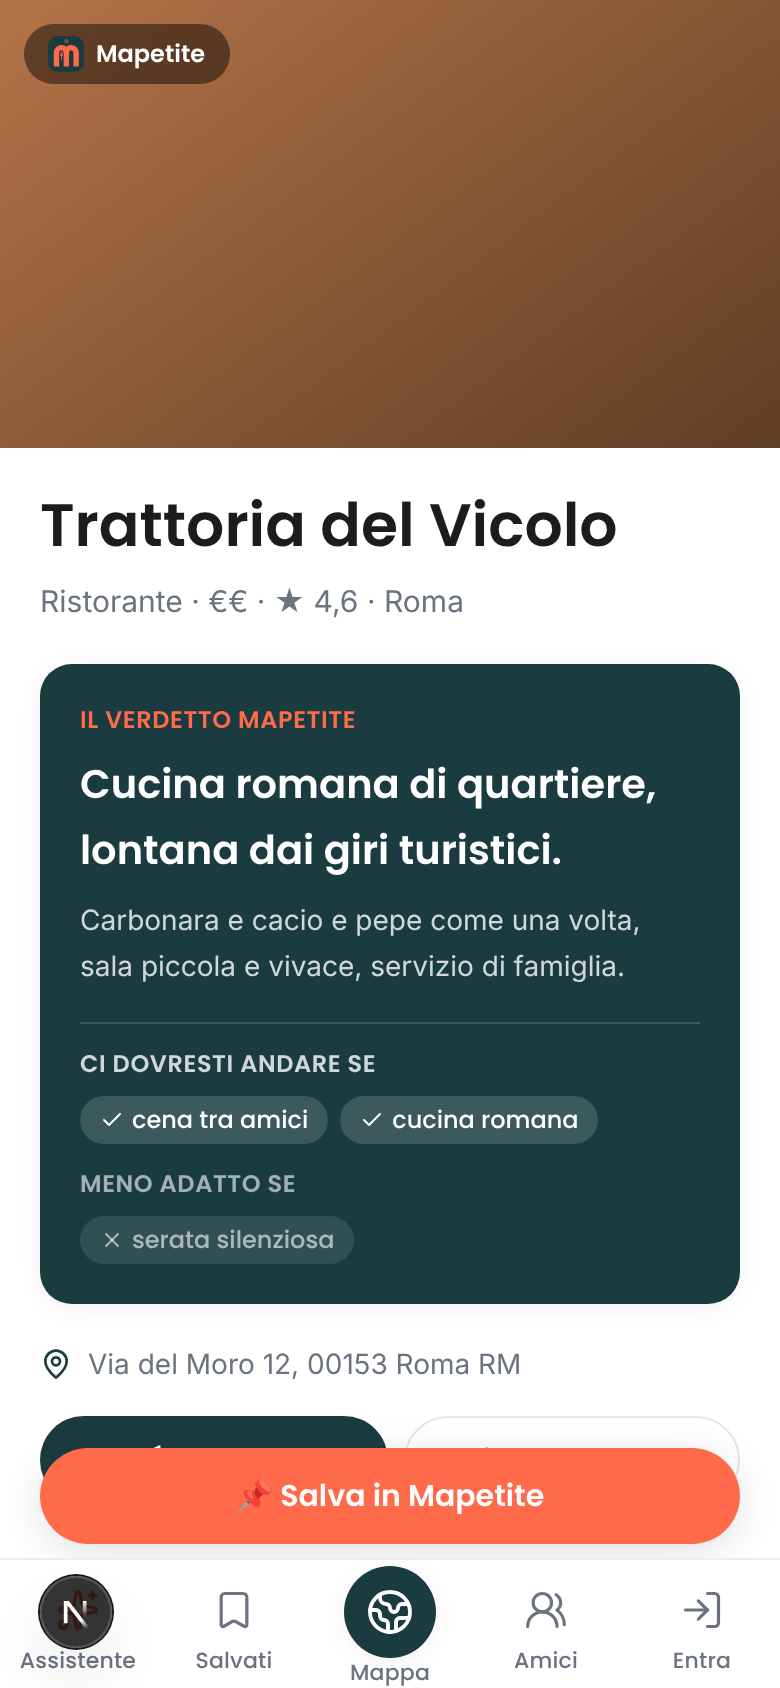
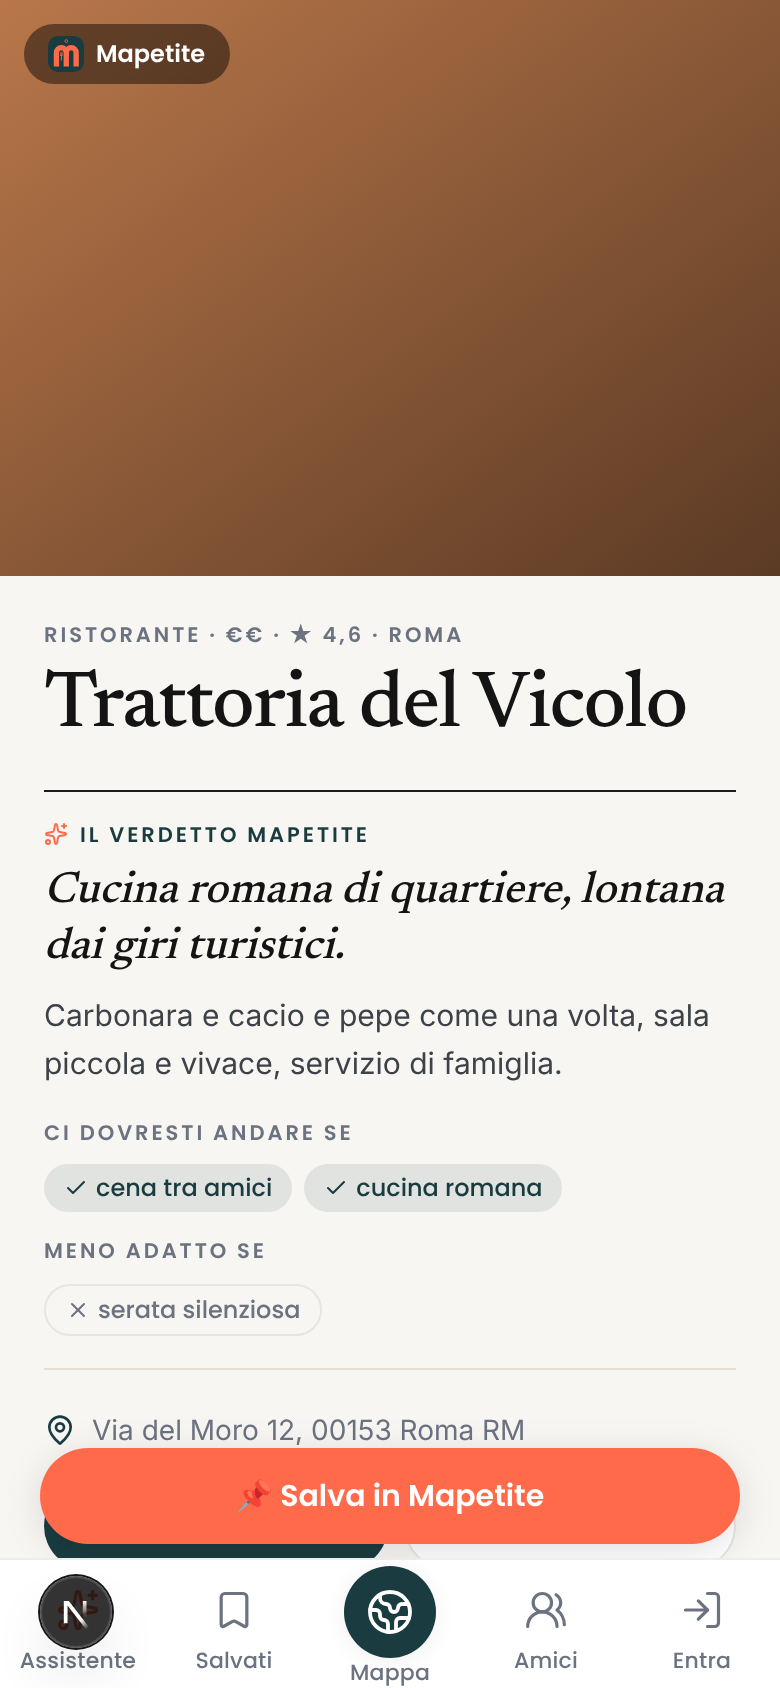
✓ requisiti di nuovo spenti in produzione (secondo collaudo della notte: 1 falso su 77, «Prenotate il tavolo panoramico»); corretti per il prossimo collaudo: due giri davvero diversi (tutta la ricerca, poi locale per locale), scadenza di 7 s, indici e requisito ricontrollati, vale il no se l'AI si c
Claude-Session: https://claude.ai/code/session_01DgoAfH6Ny6a23BFsw3ts5U

diff --git a/src/lib/conferma-prove.ts b/src/lib/conferma-prove.ts
@@ -8,7 +8,7 @@ import type { Candidato, Requisito } from "./prova-requisito";
 // instabile, 5 falsi su 65 trabocchetti e diversi a ogni giro), a temperatura 0, con la recensione
 // intera, risposta scomposta in domande semplici, e due giri: il ✓ resta solo se dicono sì tutti e due.
 
-const anthropic = new Anthropic({ apiKey: process.env.ANTHROPIC_API_KEY, maxRetries: 1, timeout: 15_000 });
+const anthropic = new Anthropic({ apiKey: process.env.ANTHROPIC_API_KEY, maxRetries: 0, timeout: 8_000 });
 export const CONFERMA_MODEL = "claude-haiku-4-5-20251001";
 
 export const CONFERMA_SYSTEM = `Controlli prove per un'app di ristoranti. Per ogni caso ricevi: il requisito cercato (r), il nome del locale, la frase candidata e la recensione intera da cui viene. Devi dire se la frase è una PROVA che QUESTO locale ha OGGI quella caratteristica. L'app mostrerà la frase come prova: una prova falsa è un errore grave, perdere una prova vera non lo è. Nel dubbio: no.
@@ -17,11 +17,11 @@ Per ogni caso rispondi a queste domande, nell'ordine:
 1. soggetto: la caratteristica appartiene a QUESTO locale (la sua sala, la sua terrazza, la sua vista, la sua atmosfera)? "altro" se è di un posto vicino, di un altro edificio, del quartiere, della strada, di un altro locale, di un parcheggio o di qualcosa visto passeggiando.
 2. significato: la parola è usata nel senso che interessa a chi sceglie un locale? "altro" se ha un altro senso: periodo o stile artistico (quadri del periodo romantico), "tranquilli" riferito a parcheggio, prezzo, prenotazione o modo di fare; "vista" sulla cucina, sul bancone, sul parcheggio, sul muro, "a vista", "vista" come verbo; "terrazza" o "giardino" come nome di piatto, di sala chiusa o di un altro posto; "coppia" di supplì o di ingredienti; "intimo" riferito a capi d'abbigliamento o a tavoli troppo vicini.
 3. tono: "positivo" se la frase dice chiaramente che la caratteristica c'è ed è bella o adatta; "ironico" se è sarcastica o il seguito della recensione la smentisce; "negativo" o "misto" se contiene un difetto, una delusione, una chiusura, una stagione in cui non c'è, una promessa non mantenuta, un confronto con altri posti, o se la caratteristica c'era in passato o era occupata o non disponibile per loro.
-4. afferma: la frase dice com'è il locale (sì) o solo cosa volevano fare loro, o un augurio, un consiglio, una domanda (no)? "Siamo andati per una cena romantica" o "Era la mia prima volta qui per una cena romantica e mi è piaciuto" non dicono che il locale è romantico (dicono perché ci sono andati); "Locale romantico, luci soffuse" sì.
+4. afferma: la frase dice com'è il locale (sì) o solo cosa volevano fare loro, o un augurio, un consiglio o un invito ("prenotate il tavolo panoramico", "chiedete la terrazza", "se volete la vista arrivate presto": no), una domanda (no)? "Siamo andati per una cena romantica" o "Era la mia prima volta qui per una cena romantica e mi è piaciuto" non dicono che il locale è romantico (dicono perché ci sono andati); "Locale romantico, luci soffuse" sì.
 5. ok: true SOLO se soggetto "locale", significato "giusto", tono "positivo" e afferma true. Leggi tutta la recensione: se altrove smentisce la frase, ok è false.
 
-Rispondi SOLO con un array JSON valido, senza testo, senza backtick:
-[{"i":number,"soggetto":"locale"|"altro","significato":"giusto"|"altro","tono":"positivo"|"ironico"|"negativo"|"misto","afferma":boolean,"ok":boolean}]`;
+Rispondi SOLO con un array JSON valido, senza testo, senza backtick, un oggetto per caso, con "i" e "r" copiati dal caso:
+[{"i":number,"r":string,"soggetto":"locale"|"altro","significato":"giusto"|"altro","tono":"positivo"|"ironico"|"negativo"|"misto","afferma":boolean,"ok":boolean}]`;
 
 type Caso = { id: string; nome: string; c: Candidato };
 
@@ -36,15 +36,22 @@ async function giro(casi: Caso[]): Promise<Set<number>> {
   });
   const t = m.content[0]?.type === "text" ? m.content[0].text : "";
   const ok = new Set<number>();
+  const no = new Set<number>();
   try {
     const arr = JSON.parse(t.slice(t.indexOf("["), t.lastIndexOf("]") + 1)) as Record<string, unknown>[];
     for (const o of arr) {
+      const i = o.i;
+      // Indice valido e requisito ricopiato uguale: uno sfasamento degli indici non passa.
+      if (typeof i !== "number" || !Number.isInteger(i) || i < 0 || i >= casi.length || o.r !== casi[i].c.r) continue;
       // Si ricontrolla ogni risposta: basta un "altro" o un tono non positivo e il ✓ non c'è.
-      if (typeof o.i === "number" && o.ok === true && o.soggetto === "locale" && o.significato === "giusto" && o.tono === "positivo" && o.afferma === true) ok.add(o.i);
+      if (o.ok === true && o.soggetto === "locale" && o.significato === "giusto" && o.tono === "positivo" && o.afferma === true) ok.add(i);
+      else no.add(i);
     }
   } catch {
     console.error("[conferma-prove] risposta non leggibile:", t.slice(0, 200));
   }
+  // Due risposte per lo stesso caso, una sì e una no: vale il no.
+  for (const i of no) ok.delete(i);
   console.log(`[conferma-prove] casi=${casi.length} ok=${ok.size} in=${m.usage.input_tokens} out=${m.usage.output_tokens}`);
   return ok;
 }
@@ -54,10 +61,16 @@ export async function confermaProve(candidati: Record<string, Candidato[]>, nomi
   const casi: Caso[] = Object.entries(candidati).flatMap(([id, cs]) => cs.map((c) => ({ id, nome: nomi[id] ?? "", c })));
   if (casi.length === 0) return {};
   try {
-    // Secondo giro con i casi in ordine inverso: la stessa risposta per caso, non per posizione.
-    const inv = [...casi].reverse();
-    const [a, bInv] = await Promise.all([giro(casi), giro(inv)]);
-    const b = new Set([...bInv].map((j) => casi.length - 1 - j));
+    // Due giri davvero diversi (secondo collaudo del 23/10: con lo stesso gruppo in ordine inverso
+    // sbagliavano insieme): il primo con tutti i casi della ricerca, il secondo locale per locale,
+    // con vicini diversi. Scadenza propria: i verdetti non aspettano mai la conferma più di 7 s.
+    const perLocale = Object.keys(candidati).map((id) => casi.map((x, i) => ({ x, i })).filter(({ x }) => x.id === id));
+    const giroB = Promise.all(perLocale.map(async (g) => {
+      const ok = await giro(g.map(({ x }) => x));
+      return g.filter((_, j) => ok.has(j)).map(({ i }) => i);
+    })).then((xs) => new Set(xs.flat()));
+    const scadenza = new Promise<never>((_, rej) => setTimeout(() => rej(new Error("conferma oltre 7 s")), 7_000));
+    const [a, b] = await Promise.race([Promise.all([giro(casi), giroB]), scadenza]);
     const out: Record<string, Requisito[]> = {};
     casi.forEach((x, i) => {
       if (a.has(i) && b.has(i)) (out[x.id] ??= []).push({ r: x.c.r, prova: x.c.prova });

diff --git a/src/lib/prova-requisito.ts b/src/lib/prova-requisito.ts
@@ -19,7 +19,7 @@ function normalizza(t: string): string {
 // Meglio perdere una prova buona che mostrarne una che dice il contrario (terzo collaudo, 22/10).
 // Quinto collaudo (22/10 mattina): anche attese deluse ("doveva essere", "speravamo"), chiusure, confronti
 // ("più bella quella accanto"), ironia ("romantico come una mensa").
-const DUBBIO = /\b(non|niente|nessun[oa]?|senza|manca\w*|mai|purtroppo|peccato|poco|forse|inesistente|granche|deludent\w*|delusion\w*|aspett\w*|rispetto|altri|altro|invece|tranne|nonostante|nulla|pero|ma|troppo|lent\w*|pecca|turistic\w*|chius\w*|riservat\w*|solo|dovev\w*|volev\w*|sper\w*|cercav\w*|pensav\w*|sarebbe|vorrebbe|ne|neanche|nemmeno|neppure|come|piu|meno|meglio|accanto|fronte|rovinat\w*|completo|sedicente|spaccia\w*|inagibil\w*|eufemism\w*|promess\w*|realta|direi|chiamarl\w*|definisc\w*)\b/;
+const DUBBIO = /\b(non|niente|nessun[oa]?|senza|manca\w*|mai|purtroppo|peccato|poco|forse|inesistente|granche|deludent\w*|delusion\w*|aspett\w*|rispetto|altri|altro|invece|tranne|nonostante|nulla|pero|ma|troppo|lent\w*|pecca|turistic\w*|chius\w*|riservat\w*|solo|dovev\w*|volev\w*|sper\w*|cercav\w*|pensav\w*|sarebbe|vorrebbe|ne|neanche|nemmeno|neppure|come|piu|meno|meglio|accanto|fronte|rovinat\w*|completo|sedicente|spaccia\w*|inagibil\w*|eufemism\w*|promess\w*|realta|direi|chiamarl\w*|definisc\w*|prenotate|chiedete|richiest\w*|consiglio di)\b/;
 // La frase deve anche DIRE che è bello: un giudizio positivo, non solo nominare la cosa
 // ("In inverno la terrazza è chiusa", "Vestitevi eleganti" non sono una prova).
 const POSITIVO = /\b(bell\w*|splendid\w*|stupend\w*|perfett\w*|ottim\w*|meraviglios\w*|mozzafiato|suggestiv\w*|incantevol\w*|magic\w*|fantastic\w*|spettacolar\w*|favolos\w*|deliziosa|delizioso|eccezional\w*|piacevol\w*|raffinat\w*|curat\w*|accoglient\w*|ideale|consigliat\w*|molto|davvero|super|top)\b/;
@@ -59,8 +59,9 @@ export function provaConContesto(requisito: string, recensioni: { text: string; 
       const pulita = f.trim().replace(/^[«"“]+|[»"”]+$/g, "");
       if (pulita.length < 25) continue;
       // La recensione attorno alla frase (prima e soprattutto dopo: lì stanno i "peccato che…").
-      const at0 = Math.max(0, r.text.indexOf(f.trim()) - 200);
-      const contesto = r.text.slice(at0, at0 + 700);
+      // 450 caratteri: il contesto viaggia firmato fino al telefono e torna (non si mostra).
+      const at0 = Math.max(0, r.text.indexOf(f.trim()) - 100);
+      const contesto = r.text.slice(at0, at0 + 450);
       if (pulita.length <= MAX) return { prova: pulita, contesto };
       // Frase lunga: si taglia attorno alla parola trovata, con i puntini.
       const at = Math.max(0, normalizza(pulita).search(parola(radici[0])) - 50);
@@ -92,7 +93,8 @@ export function requisitoDellaRichiesta(requisito: string, richiesta: string, zo
 
 // Requisito confermato e la frase di recensione Google che lo prova (copiata, mai riscritta).
 export type Requisito = { r: string; prova: string };
-// Candidato per la conferma dell'AI: anche la recensione intera (mai mandata al telefono).
+// Candidato per la conferma dell'AI: anche il pezzo di recensione attorno alla frase (viaggia firmato
+// con i dati del secondo tempo, il telefono non lo mostra).
 export type Candidato = Requisito & { contesto: string };
 
 // "✓ terrazza" sulle card (chiave B). Spento il 22/10 notte dopo due bocciature; riacceso il 22/10
@@ -100,7 +102,10 @@ export type Candidato = Requisito & { contesto: string };
 // regole trovano la frase (copiata, mai riscritta) nel primo tempo, sulle 5 recensioni intere con il
 // voto; il ✓ compare solo se l'AI dei verdetti conferma che la frase dice davvero di sì (ironia,
 // confronti, attese deluse: le regole da sole non reggono). L'AI sceglie, non scrive.
-export const REQUISITI_ACCESI = true;
+// 23/10 notte: doppia chiave bocciata 2 volte (5 falsi su 65, poi 1 su 77: «Prenotate il tavolo
+// panoramico…»), corretta dopo; spenta in produzione finché un collaudo nuovo non dà 0 falsi.
+// In sviluppo si accende con REQUISITI_PROVA=1 per i collaudi.
+export const REQUISITI_ACCESI = process.env.REQUISITI_PROVA === "1";
 
 // Requisiti della ricerca ("romantico", "terrazza") confermati da una frase delle recensioni di
 // QUESTO locale. Massimo 3; un requisito senza frase che lo provi non compare.

diff --git a/src/lib/search-intent.ts b/src/lib/search-intent.ts
@@ -80,7 +80,26 @@ export async function extractSearchIntent(query: string): Promise<SearchIntent |
     console.log(`[search-intent] dalla memoria: "${key.slice(0, 60)}"`);
     return hit.value;
   }
+  // Solo in sviluppo con GOOGLE_FIXTURES: anche l'intento si salva su disco, così la stessa frase
+  // riporta alla stessa richiesta Google salvata (senza, l'AI la riscriveva un po' diversa a ogni
+  // riavvio e GOOGLE_FIXTURES_ONLY non trovava più la risposta: 23/10).
+  const fixtureDir = process.env.NODE_ENV === "development" ? process.env.GOOGLE_FIXTURES : undefined;
+  const fixturePath = fixtureDir
+    ? `${fixtureDir}/intent-${(await import("node:crypto")).createHash("sha1").update(key).digest("hex").slice(0, 16)}.json`
+    : null;
+  if (fixturePath) {
+    const saved = await (await import("node:fs/promises")).readFile(fixturePath, "utf8").catch(() => null);
+    if (saved) return JSON.parse(saved) as SearchIntent;
+  }
   const value = askIntent(query);
+  if (fixturePath) {
+    value.then(async (v) => {
+      if (!v) return;
+      const fs = await import("node:fs/promises");
+      await fs.mkdir(fixtureDir!, { recursive: true });
+      await fs.writeFile(fixturePath, JSON.stringify(v));
+    }).catch(() => {});
+  }
   intentCache.set(key, { at: Date.now(), value });
   if (intentCache.size > INTENT_MAX) intentCache.delete(intentCache.keys().next().value!);
   // Un fallimento (null) non resta in memoria: la prossima volta si riprova.

diff --git a/src/components/home-per-te.tsx b/src/components/home-per-te.tsx
@@ -78,10 +78,12 @@ export function HomePillole({ momento, cittaProfilo }: { momento: Momento; citta
 }
 
 // Classifiche della città (lato telefono: la città può venire dalla posizione). Ogni riga è una ricerca.
-export function HomeClassifiche({ momento, cittaProfilo }: { momento: Momento; cittaProfilo: string | null }) {
+// L'ora arriva dal server, come il momento: con l'orologio del telefono, a cavallo del cambio di
+// settimana la rotazione cambiava tra server e telefono (errore di idratazione visto il 23/10).
+export function HomeClassifiche({ momento, cittaProfilo, adesso }: { momento: Momento; cittaProfilo: string | null; adesso: number }) {
   const citta = useCitta(cittaProfilo);
   const dove = CITTA_CLASSIFICHE.includes(citta) ? citta : "Roma";
-  const [now] = useState(() => new Date());
+  const [now] = useState(() => new Date(adesso));
   const top = classifiche(dove, momento, now);
   return (
     <section data-testid="home-classifiche" className="mt-8">

diff --git a/src/app/page.tsx b/src/app/page.tsx
@@ -150,7 +150,7 @@ export default async function Home({ searchParams }: { searchParams: Promise<{ [
           </section>
         )}
 
-        <HomeClassifiche momento={ora.momento} cittaProfilo={cittaProfilo} />
+        <HomeClassifiche momento={ora.momento} cittaProfilo={cittaProfilo} adesso={now.getTime()} />
 
         <p className="mt-6 flex justify-center text-xs font-sans text-text-muted">
           <IntroAgain />

diff --git a/docs/autonomia/DA-FARE-LORENZO.md b/docs/autonomia/DA-FARE-LORENZO.md
@@ -10,6 +10,10 @@ Chiesto da Lorenzo il 21/10: "ricordami quello che devo fare anche nelle prossim
 
 **Istruzioni passo passo con i link: `ISTRUZIONI-LORENZO.md` (22/10).**
 
+00. **Ricarica il credito Anthropic (Haiku) — APERTA, URGENTE (23/10, 01:00).** L'API risponde "credit balance is too low": in produzione l'AI non scrive più né verdetti per i locali nuovi né i "perché" (prova delle 01:00: 0 "perché" su 12, verdetto solo sui 10 già in memoria). La ricerca funziona ancora, ma senza AI non si capisce perché Mapetite è diversa.
+   - console.anthropic.com → Plans & Billing → acquista credito (prepagato, senza ricarica automatica).
+   - Come si verifica: le sessioni lo vedono da sole (il verdetto torna sui locali nuovi).
+
 0. **Una sola attività programmata — APERTA (22/10).** Metti in pausa quella del fine settimana e sostituisci il testo di quella dei feriali con `PROMPT-UNICO.md`, orari `5 3,10,14,18,22 * * *`. Così non partono mai due chat sulla stessa cosa.
 
 1. **Accesso con Google in un tocco (sprint, chiave 0) — APERTA.** Il pulsante "Continua con Google" è già pronto e compare da solo quando Google è acceso su Supabase.
